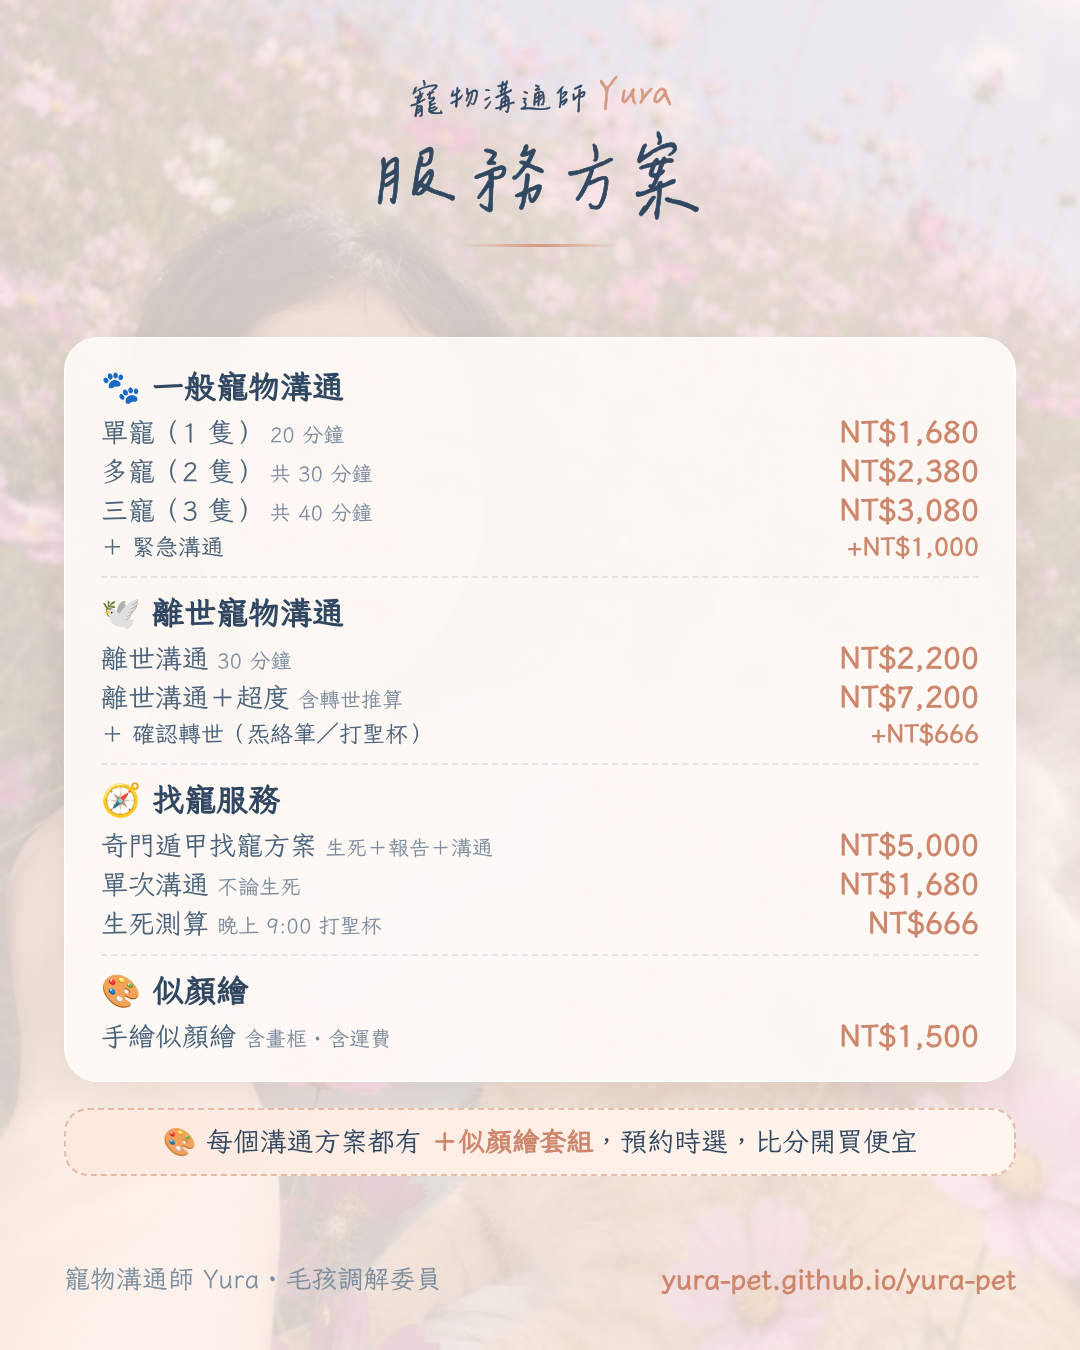
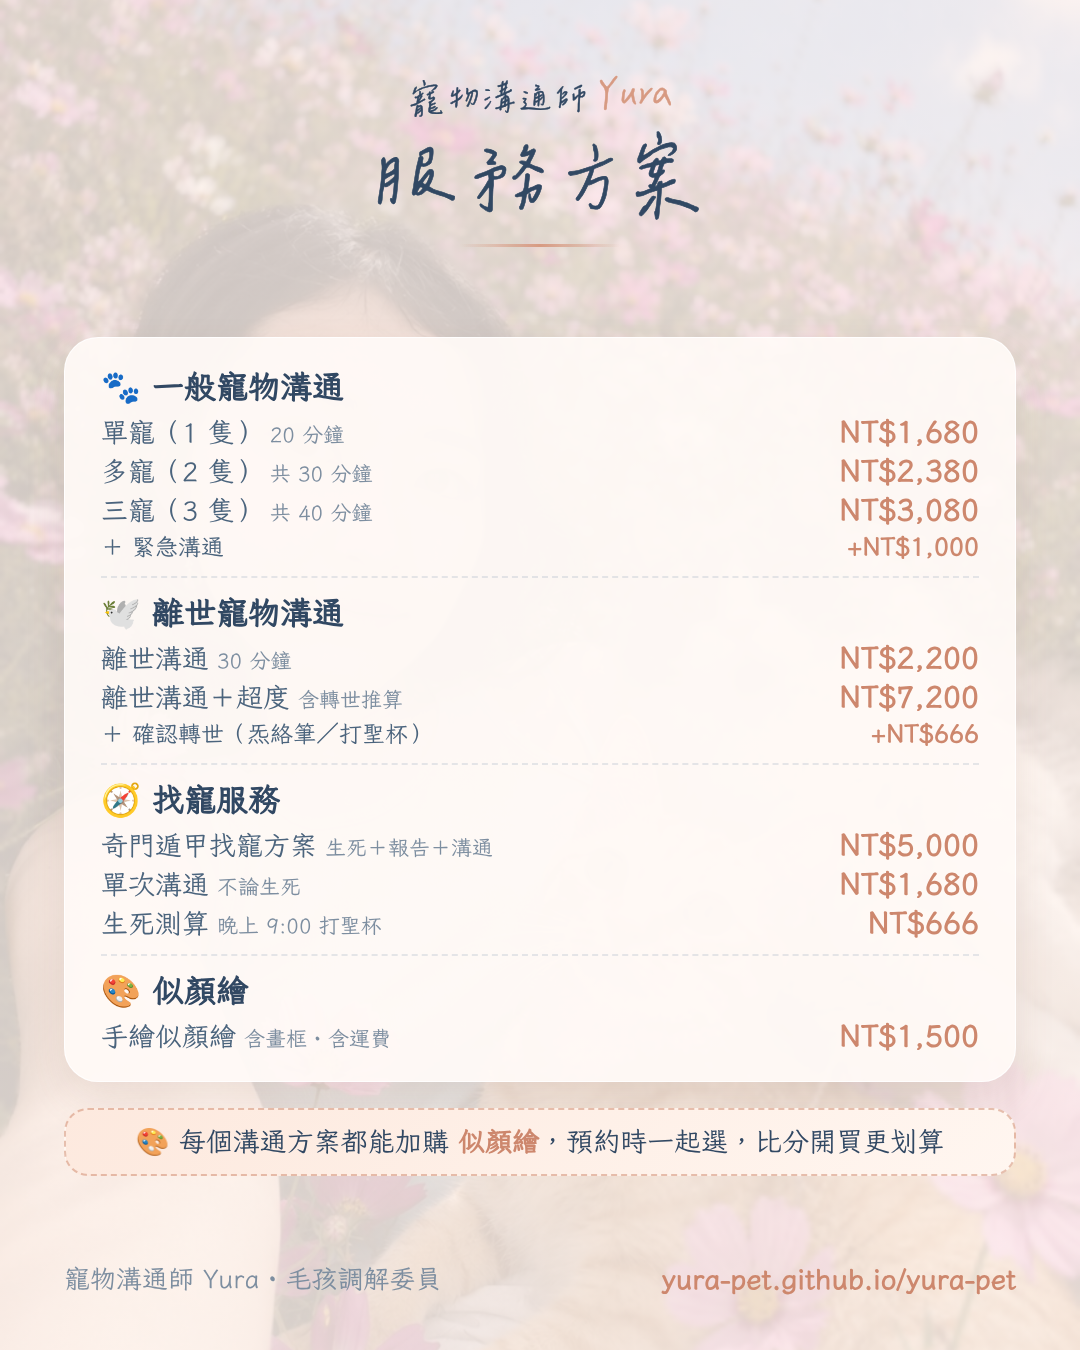
Plans card: clearer illustration add-on line
Claude-Session: https://claude.ai/code/session_01MpWapEGJJ8Q1WB6KntLpTt

Changed region(s): [[0.1222, 0.84, 0.4278, 0.8711], [0.4889, 0.84, 0.6417, 0.8711], [0.7944, 0.84, 0.8861, 0.8711]]

diff --git a/marketing/cards.html b/marketing/cards.html
@@ -130,7 +130,7 @@ h1{font-family:"ChenYuluoyan",serif;font-weight:400;font-size:92px;line-height:1
         <div class="row"><span>手繪似顏繪<small>含畫框・含運費</small></span><span class="p">NT$1,500</span></div>
       </div>
     </div>
-    <div class="combo">🎨 每個溝通方案都有 <b>＋似顏繪套組</b>，預約時選，比分開買便宜</div>
+    <div class="combo">🎨 每個溝通方案都能加購 <b>似顏繪</b>，預約時一起選，比分開買更划算</div>
   </div>
   <div class="foot"><span>寵物溝通師 Yura・毛孩調解委員</span><b>yura-pet.github.io/yura-pet</b></div>
 </section>
